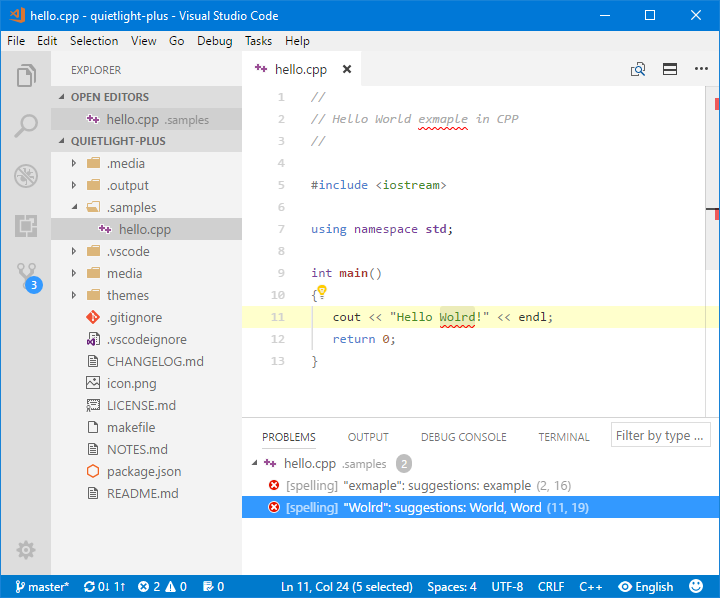
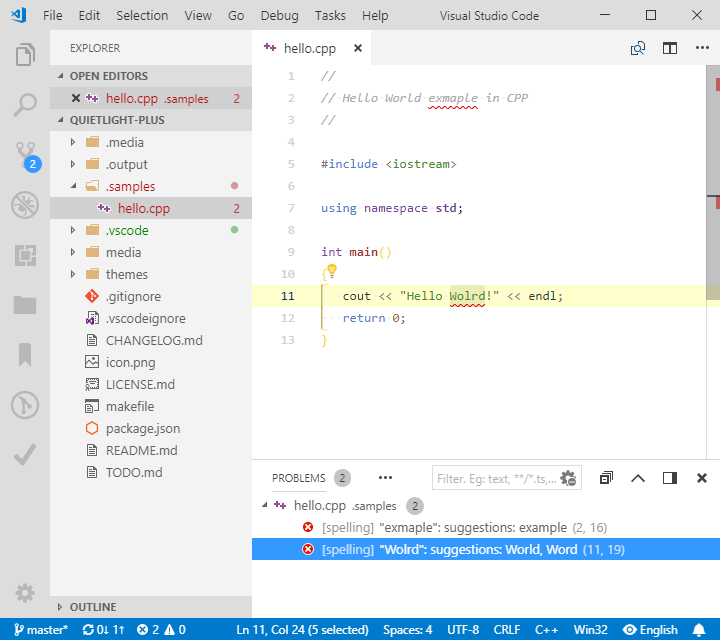
Screenshot updated

diff --git a/CHANGELOG.md b/CHANGELOG.md
@@ -1,5 +1,9 @@
 # Change Log
 
+## **1.0.32** released on 21st August 2018
+
+- **Change:** Screenshot update.
+
 ## **1.0.30** released on 22nd January 2018
 
 - **Change:** GIT ignored files in tree view color corrected for better visibility.
